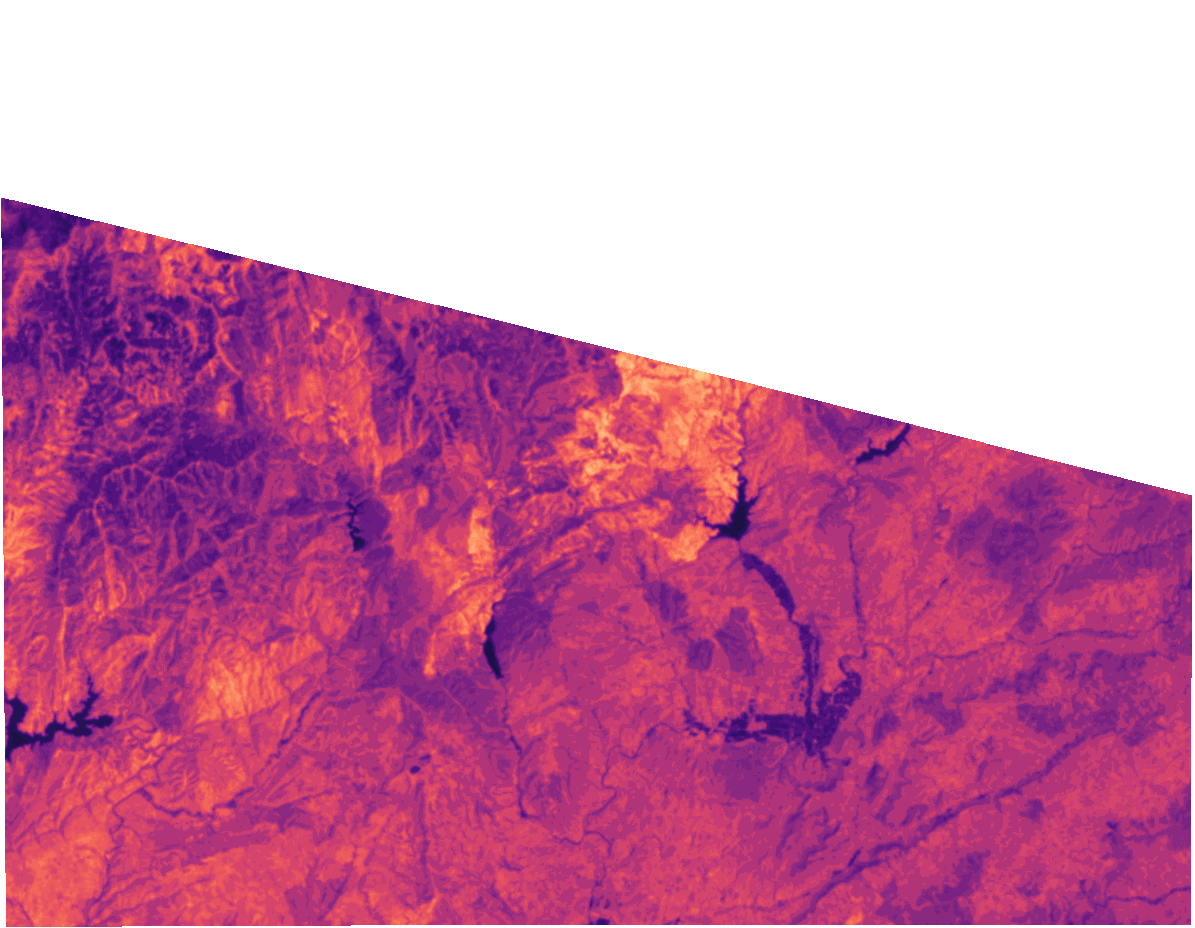
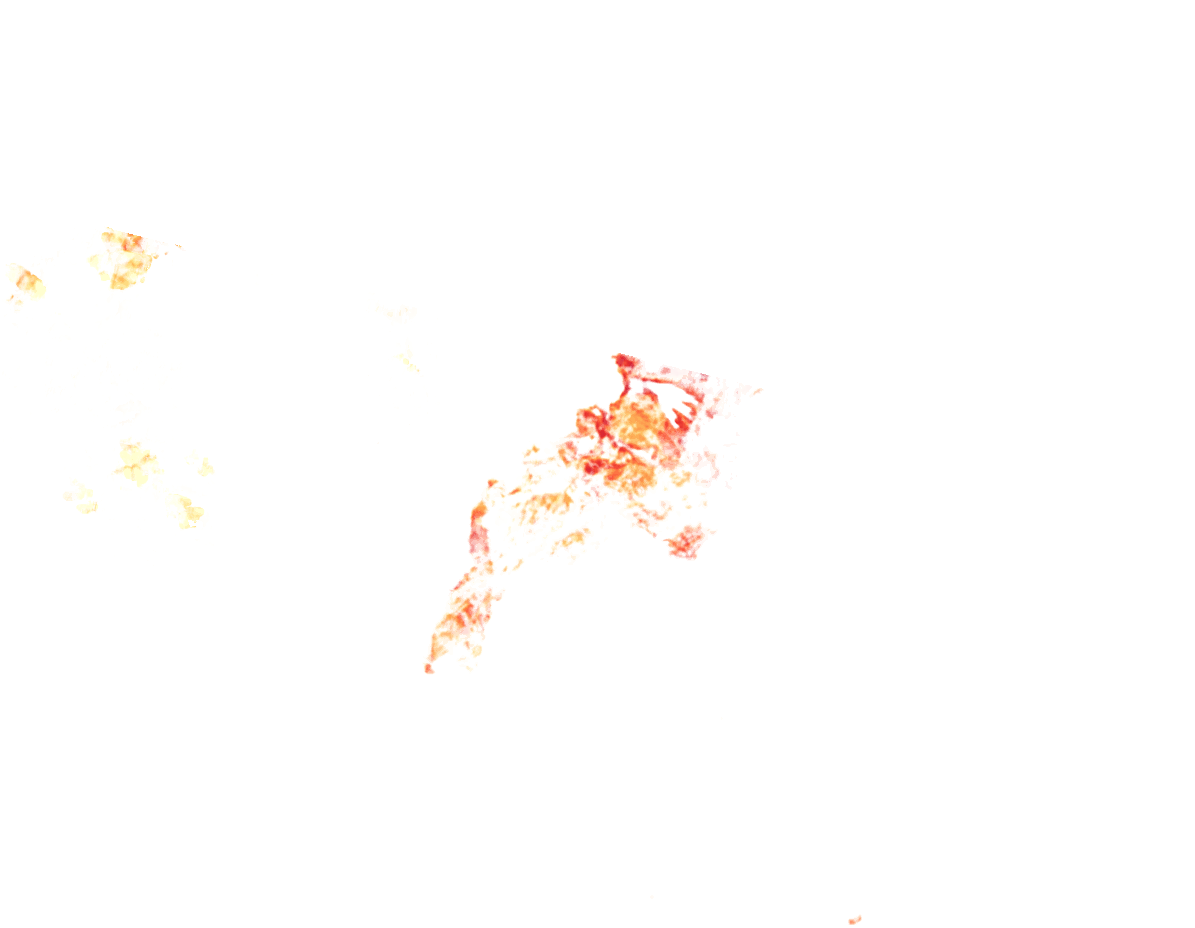
feat: organic fire overlays — anomaly-alpha layers, YlOrRd ramp, cooperative gestures
Only thermally anomalous pixels are drawn (z-score alpha baked into the
PNGs); trackpad scroll passes through, ⌘+scroll zooms.

Claude-Session: https://claude.ai/code/session_01AFnX2sXvzcaYRBGyxfCCUF

diff --git a/src/components/labs/fire-map.tsx b/src/components/labs/fire-map.tsx
@@ -82,6 +82,8 @@ export function FireMap({ meta, base }: { meta: Meta; base: string }) {
       bounds: [w, s, e, n],
       fitBoundsOptions: { padding: 24 },
       attributionControl: { compact: true },
+      // trackpad-friendly: page scroll passes through; ⌘/Ctrl+scroll zooms
+      cooperativeGestures: true,
     });
     m.addControl(new maplibregl.NavigationControl({ showCompass: false }));
 
@@ -101,7 +103,9 @@ export function FireMap({ meta, base }: { meta: Meta; base: string }) {
           id: `lst-${key}`,
           type: "raster",
           source: `lst-${key}`,
-          paint: { "raster-opacity": 0.78, "raster-resampling": "nearest" },
+          // per-pixel alpha is baked into the PNG (thermal z-score ramp):
+          // normal terrain is transparent, only the anomaly shows
+          paint: { "raster-opacity": 1, "raster-resampling": "linear" },
           layout: { visibility: key === "during2" ? "visible" : "none" },
         });
       }
@@ -224,12 +228,12 @@ export function FireMap({ meta, base }: { meta: Meta; base: string }) {
 
       {!showDnbr && (
         <div className="mt-3 flex items-center gap-3 font-mono text-[11px] uppercase tracking-[0.1em] text-ink-faint">
-          <span>20 °C</span>
+          <span>35 °C</span>
           <div
             className="h-1.5 flex-1 rounded-full"
             style={{
               background:
-                "linear-gradient(90deg, #000004, #3b0f70, #8c2981, #de4968, #fe9f6d, #fcfdbf)",
+                "linear-gradient(90deg, #ffffcc, #fed976, #fd8d3c, #e31a1c, #800026)",
             }}
           />
           <span>65 °C</span>

diff --git a/src/app/labs/incendio/page.tsx b/src/app/labs/incendio/page.tsx
@@ -98,6 +98,11 @@ export default async function IncendioPage() {
             <span className="text-ink-faint">hover for °C</span>
           </div>
           <FireMap meta={meta} base={BASE} />
+          <p className="mt-3 max-w-2xl text-sm leading-relaxed text-ink-faint">
+            Only thermally anomalous terrain is drawn — each pixel fades in as
+            it moves beyond 2σ from its own June–July baseline. Before the
+            fire, the map is quiet on purpose.
+          </p>
         </Reveal>
       </section>
 
